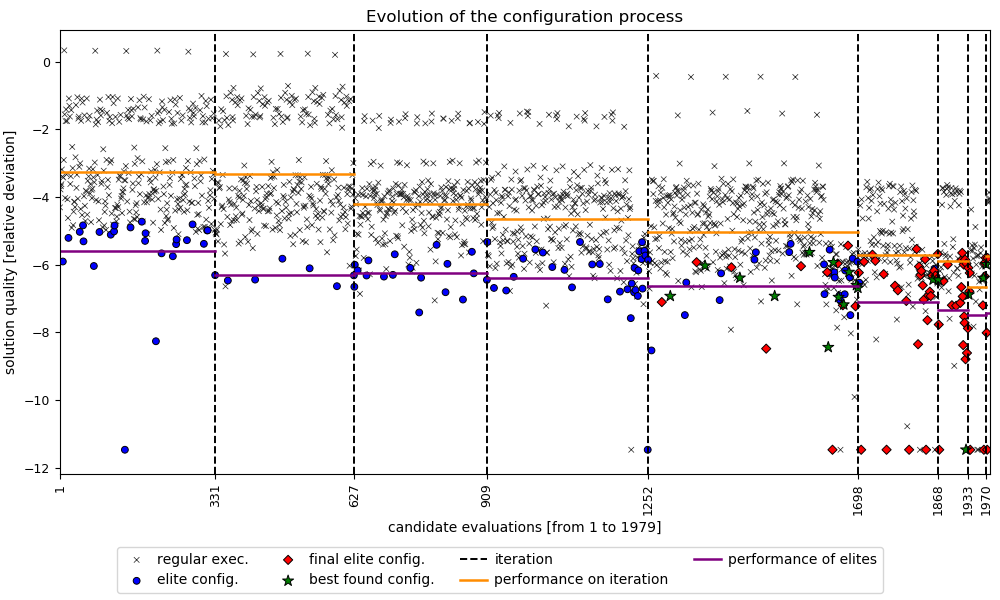
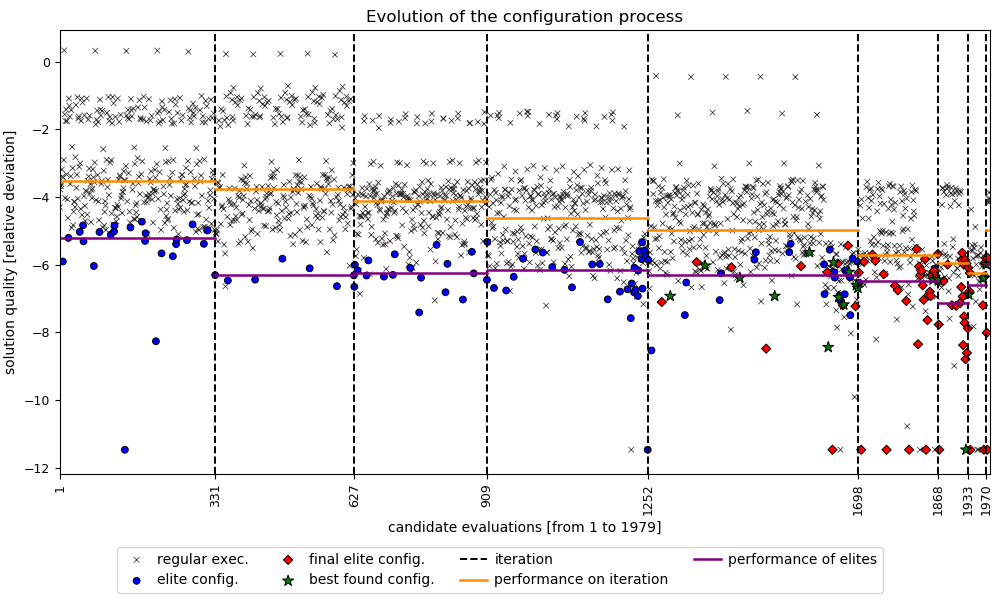
Chage mean to median on plot.

diff --git a/cat.py b/cat.py
@@ -73,8 +73,8 @@ def plotEvo(data, restarts, showElites, showInstances, showConfigurations, pconf
     ax.set_xticks(iterationPoints)
     
     iterations = data['iteration'].unique().tolist()
-    avg = [data[data['iteration'] == iteration]['reldev'].map(log).mean() for iteration in iterations]
-    best = [data[(data['iteration'] == iteration) & ((data['type'] == 'elite') | (data['type'] == 'final') | (data['type'] == 'best'))]['reldev'].map(log).mean() for iteration in iterations]
+    avg = [data[data['iteration'] == iteration]['reldev'].map(log).median() for iteration in iterations]
+    best = [data[(data['iteration'] == iteration) & ((data['type'] == 'elite') | (data['type'] == 'final') | (data['type'] == 'best'))]['reldev'].map(log).median() for iteration in iterations]
     iterationPoints.append(data['id'].max())
     for i in range(len(iterations)):
         plt.plot([iterationPoints[i], iterationPoints[i + 1]], [avg[i], avg[i]], linestyle = '-', color = '#FF8C00', linewidth = 1.8)
